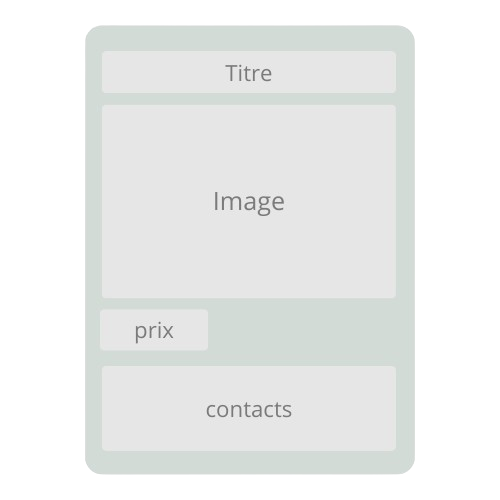
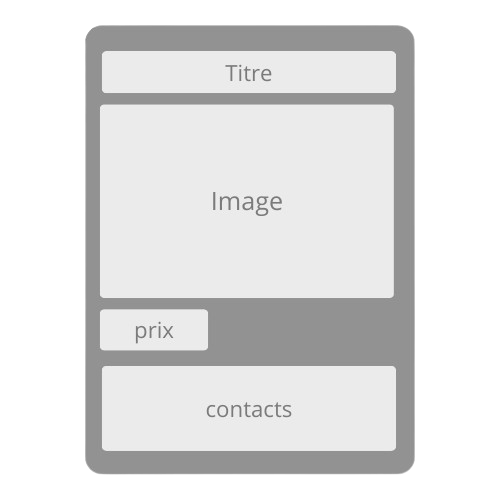
Finishing the first type (A) of product cards

Changed region(s): [[0.15, 0.03, 0.84, 0.96], [0.42, 0.39, 0.57, 0.45]]

diff --git a/components/Shop.vue b/components/Shop.vue
@@ -1,5 +1,5 @@
 <template>
-    <div v-if="conf" :style="`--bg-color: ${conf.bg}59 ; --text-color: ${conf.textColor};`" class="wrapper rounded-xl p-5 border">
+    <div v-if="conf" :style="`--bg-color: ${conf.bg}59 ; --text-color: ${conf.textColor}; --bg-pub : ${conf.bg}B3 ;`" class="wrapper rounded-xl p-5 border">
         
         <div v-if="conf.logo" class="flex justify-center">
             <img :src="conf.logo" alt="logo" class="w-1/2 h-auto"/>
@@ -29,7 +29,7 @@
 
     <main>
         <!-- pub -->
-        <section class="wrapper grid grid-cols-2 place-items-center gap-5 my-12 border h-120 w-[80%] mx-auto rounded-xl">
+        <section class="PubColor grid grid-cols-2 place-items-center gap-5 my-12 border h-120 w-[80%] mx-auto rounded-xl">
             <!-- carosel and description-->
              <div class="w-[100%] ml-5">
                 <h2 class="logo font-extrabold text-6xl mb-10 ml-4">{{ conf.name }}</h2>
@@ -40,7 +40,7 @@
                  <UCarousel
                     v-slot="{ item }"
                     loop
-                    :autoplay="{ delay: 2000 }"
+                    :autoplay="{ delay: 5000 }"
                     :items="ProdPics"
                     :ui="{}"
                 >
@@ -50,10 +50,17 @@
         </section>
 
         <section>
-            <div id="products_holder">
-                <div v-for="product in conf.Products">
-                    <div v-if="conf.cardType ==='A' ">
-                        <!-- A TYPE COMPONENET -->
+            <h2 class="logo font-extrabold text-6xl mb-10 ml-4">Nos produits</h2>
+            <div id="products_holder" class="grid grid-cols-3 gap-5">
+                <div v-for="product in Products"  :key="product.id">
+                    <div v-if="conf.cardType ==='A'" >
+                        <CardsTypeA 
+                            :product="product"
+                            :fb="conf.fb_url"
+                            :ig="conf.ig_url"
+                            :email="conf.email"
+                            :phone="conf.phone"
+                        />
                     </div>
 
                     <div v-else-if="conf.cardType ==='B'">
@@ -72,7 +79,7 @@
         </section>
     </main>
 
-    <footer class="flex items-center justify-between mt-10">
+    <footer class="flex items-center justify-between mt-10 p-3 rounded-xl" :style="`background-color : ${conf.bg};`">
         <div>
             <h2>Nos contacts</h2>
         <ul>
@@ -86,6 +93,7 @@
         
         <div v-if="conf.xcor !== 0 && conf.ycor !==0">
             <div id="map">
+                
                 <!-- map from leflet -->
             </div>
 
@@ -104,7 +112,8 @@
 </template>
     
 <script setup lang='ts'>
-import type { shopConfT } from '~/types/GeneraleT';
+import type { Produit, shopConfT } from '~/types/GeneraleT';
+
 
     defineProps<{
         conf :shopConfT,
@@ -118,9 +127,50 @@ import type { shopConfT } from '~/types/GeneraleT';
   'https://picsum.photos/468/468?random=5',
   'https://picsum.photos/468/468?random=6'
 ]
+
+
+//TODO: find a way to get the products using conf.products ... 
+const Products : Produit[] = [
+    {
+        id: 1,
+        name: 'Product 1',
+        img: 'https://picsum.photos/468/468?random=1',
+        category: 'Accessoire',
+        pua: 10,
+        puv: 10,
+        quantity: 10,
+    },
+    {
+        id: 2,
+        name: 'Product 2',
+        img: 'https://picsum.photos/468/468?random=2',
+        category: 'Accessoire',
+        pua: 20,
+        puv: 20,
+        quantity: 20,
+    },
+    {
+        id: 3,
+        name: 'Product 3',
+        img: 'https://picsum.photos/468/468?random=3',
+        category: 'Accessoire',
+        pua: 30,
+        puv: 30,
+        quantity: 30,
+    },
+    {
+        id: 4,
+        name: 'Product 4',
+        img: 'https://picsum.photos/468/468?random=4',
+        category: 'Accessoire',
+        pua: 40,
+        puv: 40,
+        quantity: 40,
+    },]
+        
 </script>
 
-<style scooped>
+<style scoped>
 
     @import url('https://fonts.googleapis.com/css2?family=Great+Vibes&display=swap');
 
@@ -136,5 +186,9 @@ import type { shopConfT } from '~/types/GeneraleT';
 
     .wrapper{
         background-color: var(--bg-color);
+    }
+
+    .PubColor{
+        background-color: var(--bg-pub);
     }
 </style>

diff --git a/components/Cards/TypeA.vue b/components/Cards/TypeA.vue
@@ -1,0 +1,86 @@
+<template>
+        <div class="border-2 border-gray-300 rounded-lg p-4 flex flex-col items-center PubColor ">
+            <div class="w-max p-2 self-start">
+                <p class="text-sm"><span class="text-2xl font-[800]">{{ product.puv }}</span> DZD</p>
+            </div>
+
+            <div class="relative">
+                <img v-if="product.img" :src="product.img" :alt="product.name" class="h-[98%] border-2 rounded-md w-[98%] object-center" />
+                <UModal  
+
+                :ui="{
+                    overlay: 'bg-black/80',
+                    body: 'bg-[var(--deep-dark-blue)] border-none outline-none ',
+                    header: 'bg-[var(--deep-dark-blue)] border border-none ',
+                    close : 'bg-red-500 hover:bg-red-600',
+                    content: 'border rounded-sm',
+                }"
+                >
+                    <UButton class="absolute bottom-2 right-4 bg-black/60 hover:bg-black/70 text-white" icon="i-majesticons-open"/>
+
+                    <template #body>
+                        <div class="w-[100%] h-[100%] flex justify-center items-center">
+                            <img v-if="product.img" :src="product.img" :alt="product.name" class="w-[90%]" />
+                        </div>
+                    </template>
+                </UModal>
+            </div>
+
+            <div class="mt-4 mb-2">
+                <p class="text-xl font-bold">{{ product.name }}</p>
+            </div>
+
+            <div class="self-start border-t-2 w-full pt-3 ">
+                <ul class="flex flex-col gap-2 ">
+                    <span class="text-sm font-extrabold">Contactez nous sur</span>
+                    <li v-if="fb">
+                        <a :href="fb" target="_blank" class="flex items-center gap-2 py-1 px-3 w-[40%] bg-[#3b5998] rounded-md">
+                            <UIcon name="i-mdi-facebook" class="text-2xl" />
+                            <span class="text-sm">Facebook</span>
+                        </a>
+                    </li>
+                    <li v-if="ig">
+                        <a :href="ig" target="_blank" class="flex items-center gap-2 py-1 px-3 w-[40%] bg-gradient-to-r from-purple-600 via-pink-600 to-yellow-400 rounded-md">
+                           <UIcon name="i-hugeicons-instagram" class="text-2xl" />
+                            <span class="text-sm">Instagram</span>
+                            
+                        </a>
+                    </li>
+
+                     <li >
+                        <a :href="`mailto:${email}`" target="_blank" class="flex items-center gap-2 py-1 px-3 w-[40%] bg-gradient-to-r from-red-500 to bg-red-800 rounded-md">
+                           <UIcon name="i-material-symbols-mail" class="text-2xl" />
+                            <span class="text-sm">Email</span>
+                            
+                        </a>
+                    </li> 
+                   
+                    <span class="text-sm font-extrabold">OU Appelez nous</span>
+                    <li >
+                        <a :href="`tel:${phone}`" target="_blank"class="flex items-center justify-center gap-2 py-2 px-3 w-[90%] bg-green-600 hover:bg-green-500 transition-all duration-300 ease-in-out mx-auto rounded-md">
+                           <UIcon name="i-lineicons-phone" class="text-2xl" />
+                            <span class="text-md font-extrabold">Email</span>
+                            
+                        </a>
+                    </li> 
+                    
+                </ul>
+            </div>
+
+        </div>
+</template>
+    
+<script setup lang='ts'>
+import type { Produit } from '~/types/GeneraleT';
+
+    const props = defineProps<{
+        product :Produit,
+        fb? : string,
+        ig ?: string,
+        email : string,
+        phone : string,
+    }>()
+</script>
+    
+<style>
+</style>

diff --git a/pages/OnlineShop/index.vue b/pages/OnlineShop/index.vue
@@ -7,7 +7,7 @@
         }" :overlay="true">
             <div class="flex items-center ml-auto my-6 w-max">
 
-                <UButton label="Configurer votre boutique" icon="i-vaadin-touch" variant="subtle" class="border bg-green-500/80"/>
+                <UButton label="Configurer votre boutique" icon="i-vaadin-touch" variant="subtle" class="border"/>
             </div>
 
             <template #content>
@@ -221,6 +221,7 @@ import desing2 from '~/assets/pics/design2.png';
 import desing3 from '~/assets/pics/design3.png';
 import desing4 from '~/assets/pics/design4.png';
 
+
 const LoyoutOptions :{value: card_t , label :string , src : string}[] = [
   { value: 'A', label: 'Option A' , src : desing1},
   { value: 'B', label: 'Option B' , src : desing2},
@@ -254,10 +255,10 @@ const shopConfig = ref<shopConfT>({
 
 const fetchedConf = ref<shopConfT>({
     name: 'My Shop',
-    description: 'This is my shop',
+    description: 'Lorem ipsum dolor sit amet consectetur adipisicing elit. Totam odio modi delectus dolores aliquid voluptas aperiam molestias rerum laboriosam. Pariatur accusantium magni placeat libero enim odio soluta tempore quasi ad!',
     Products: ["product1", "product2", "product3", "product4"],
     livraison: true,
-    cardType : "B",
+    cardType : "A",
     bg: '#4563f1',
     fb_url: 'https://facebook.com/myshop',
     ig_url: 'https://instagram.com/myshop',
